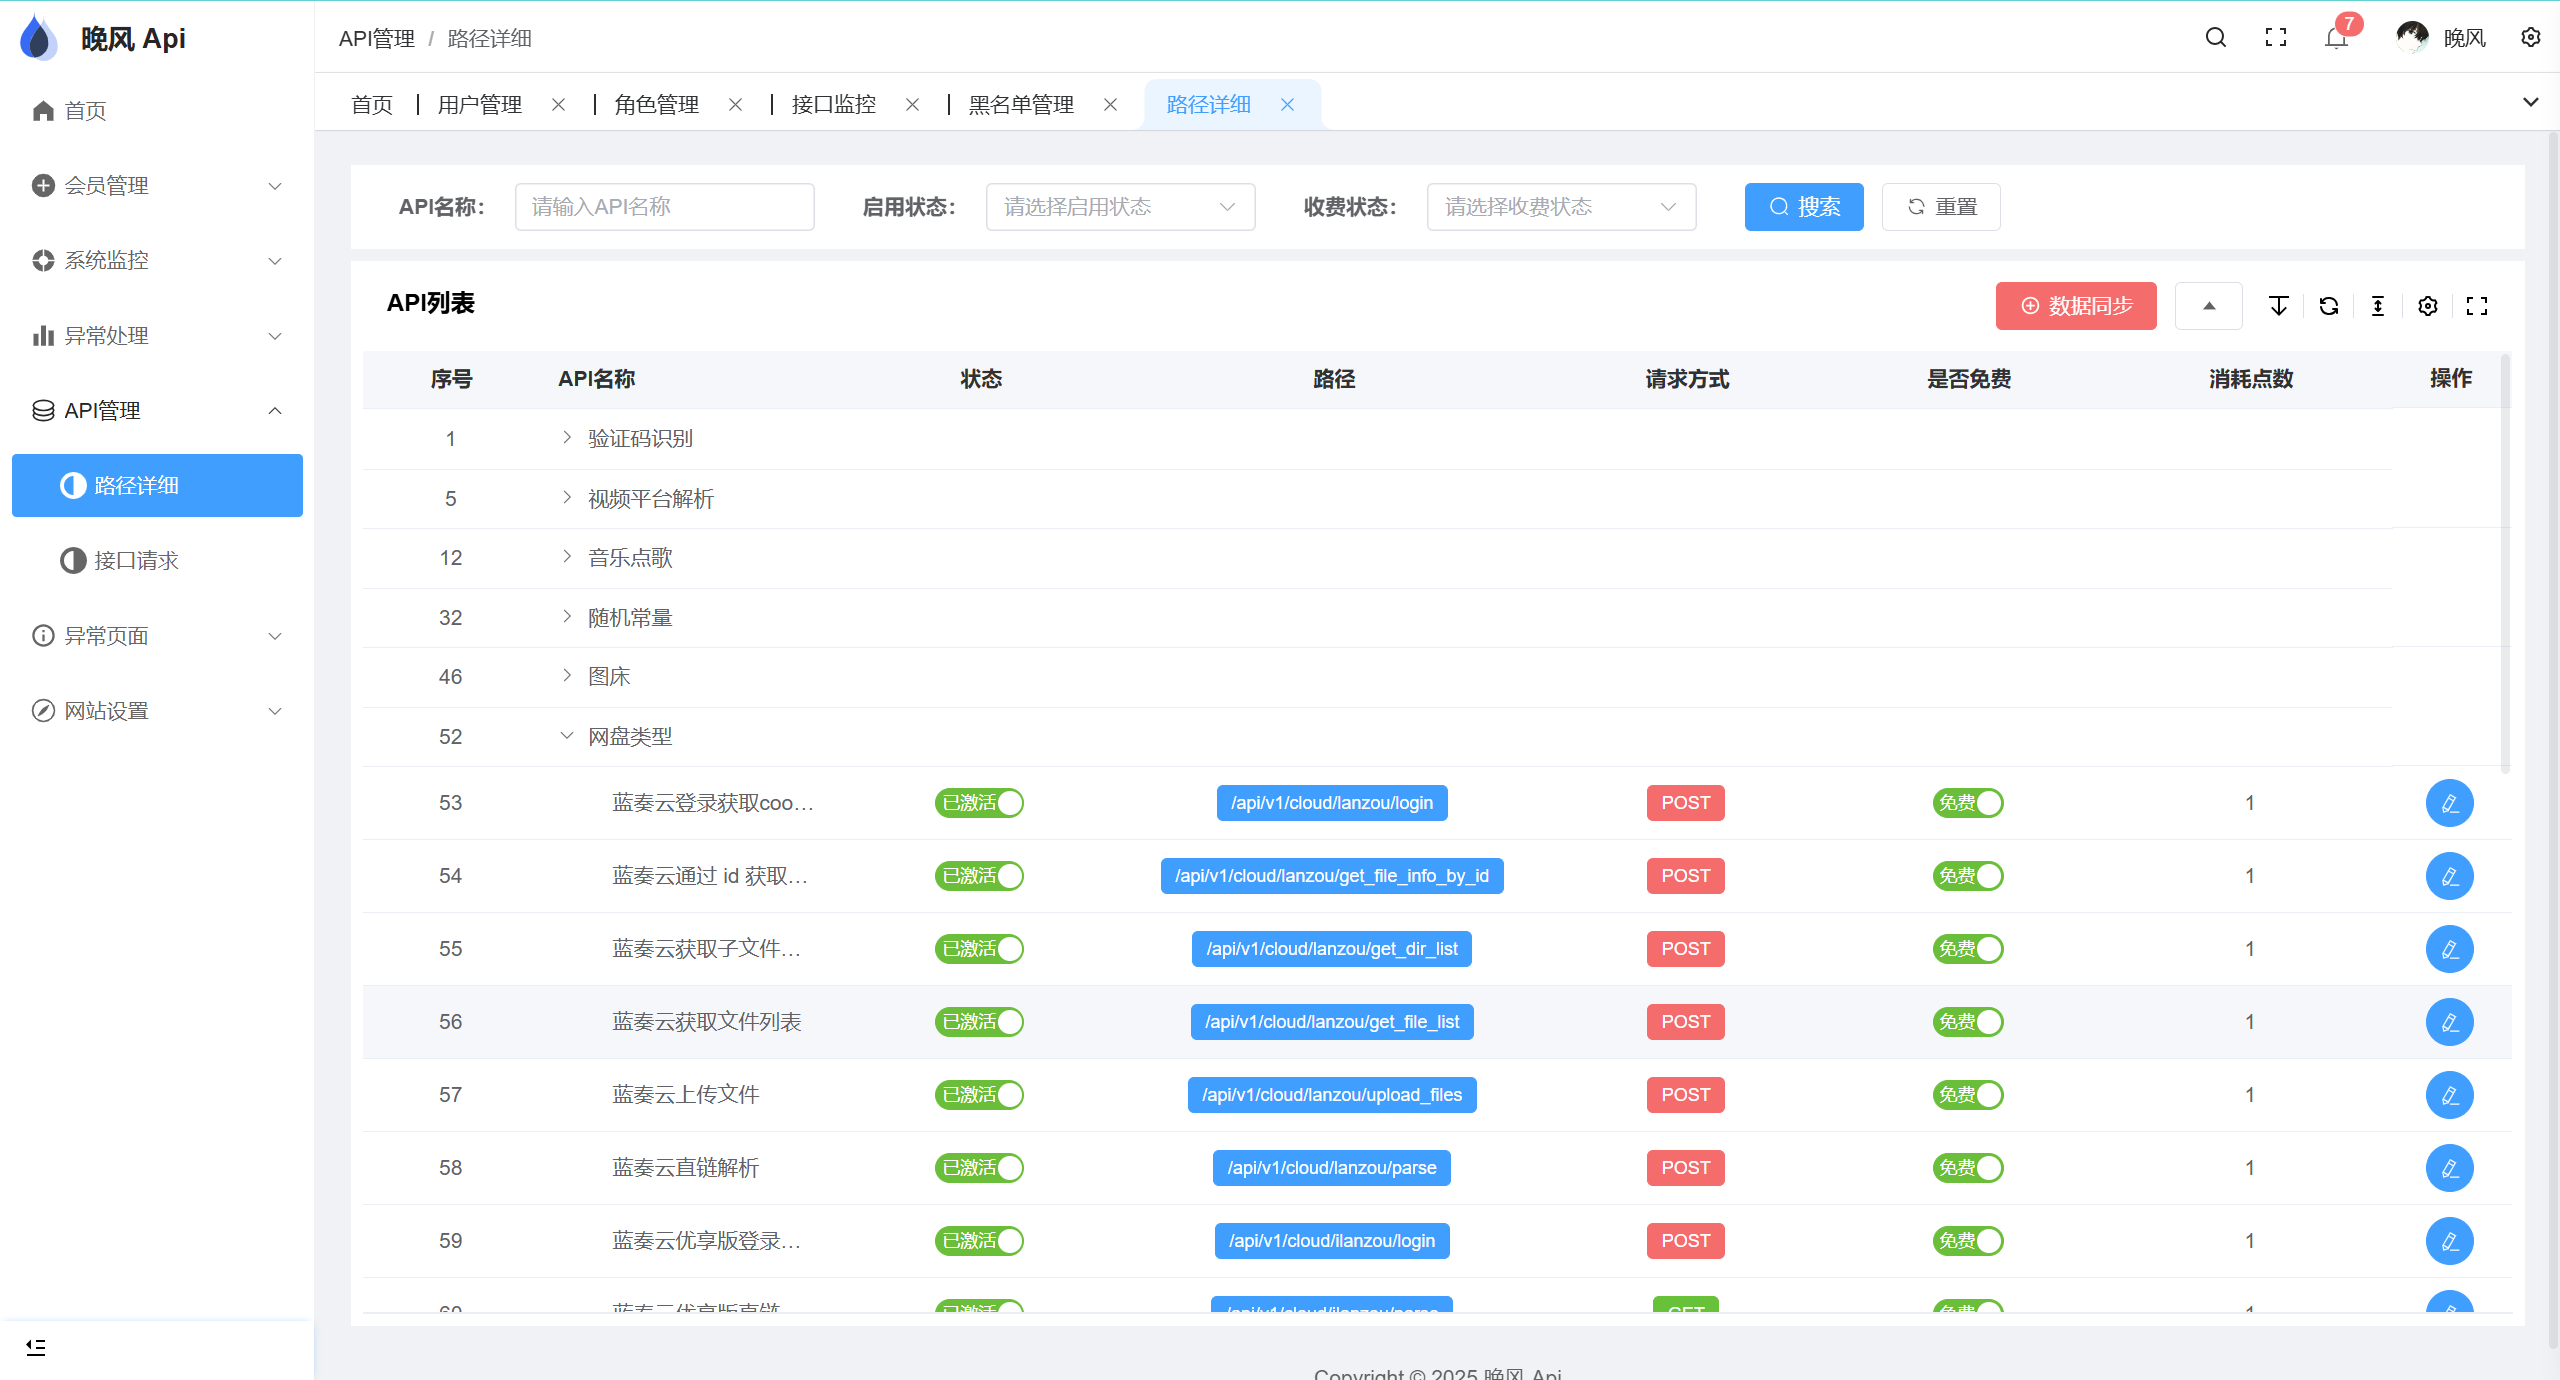
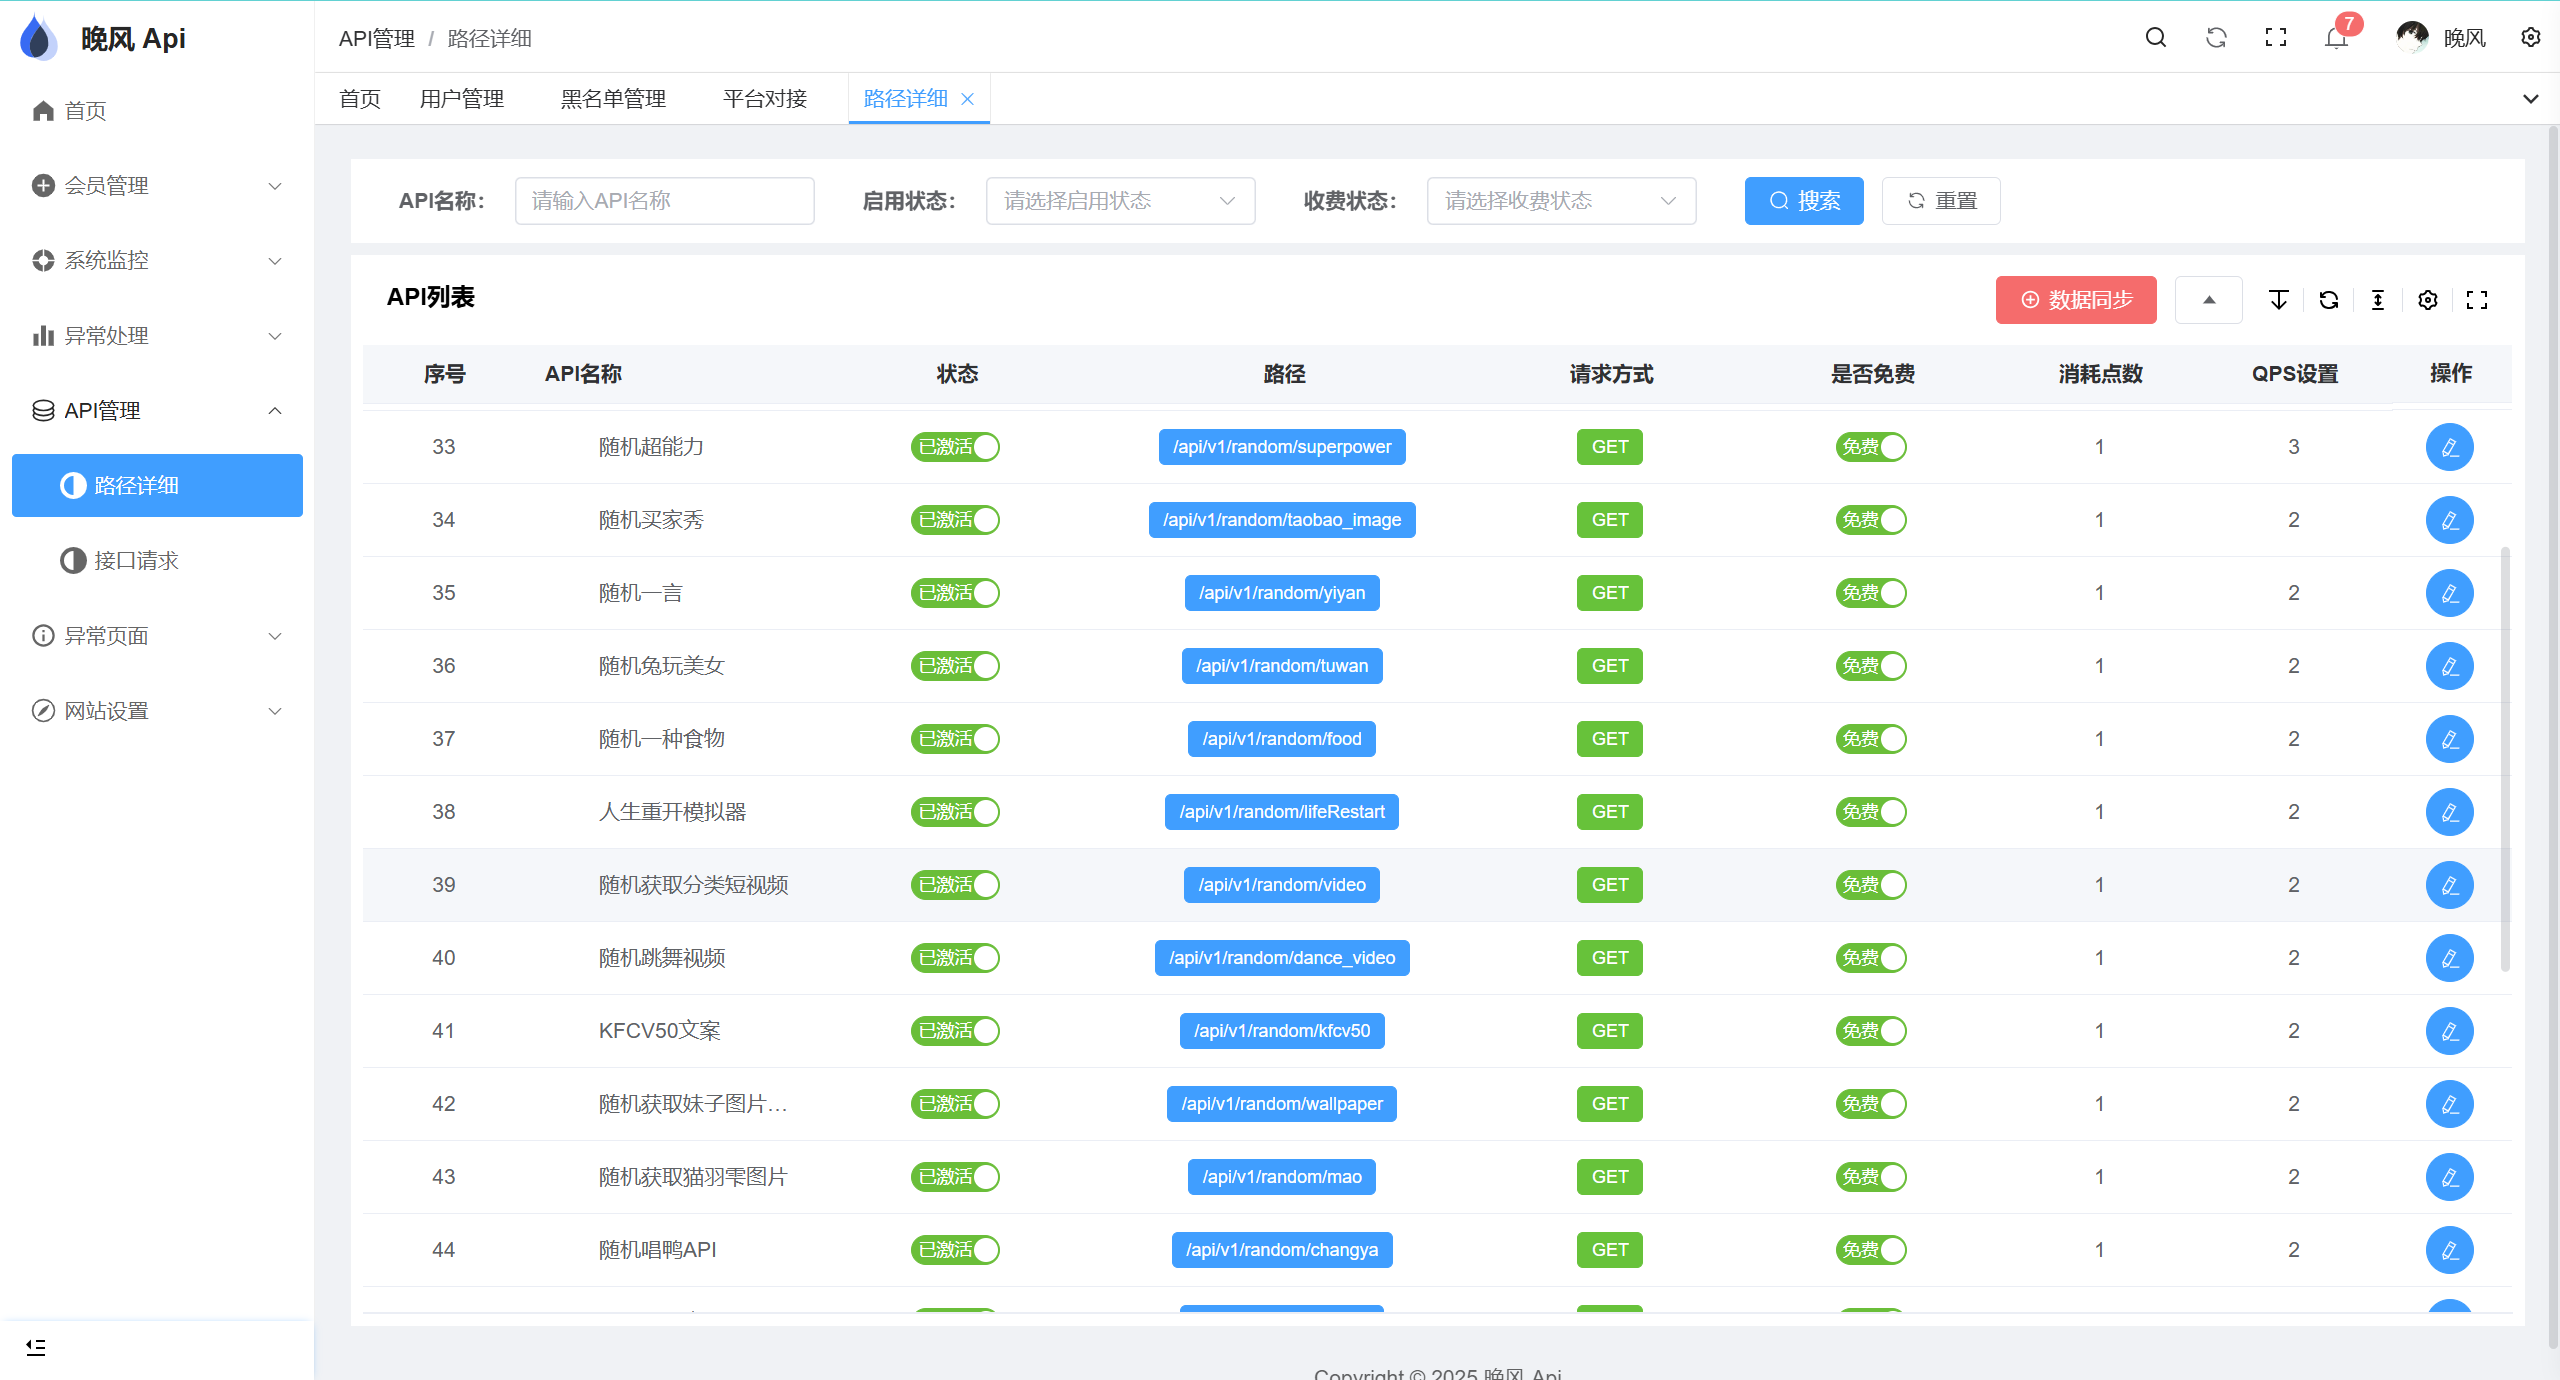
更新 readme

diff --git a/readme.md b/readme.md
@@ -12,22 +12,26 @@
 
 </div>
 
-基于 FastAPI + Vue3 + Element UI 的现代化前后端分离开发平台，融合了 RBAC 权限管理、动态路由和 JWT 鉴权，内置110+条api接口。
+
+基于 FastAPI + Vue3 + Element UI 的现代化前后端分离开发平台，融合了 RBAC 权限管理、动态路由和 JWT 鉴权，内置130+条api接口。
 
 ### 特性
 
-- **最流行技术栈**：基于 Python 3.11 和 FastAPI 高性能异步框架，结合 Vue3 和 Vite 等前沿技术进行开发。
-- **JWT鉴权**：使用 JSON Web Token（JWT）进行身份验证和授权，增强应用的安全性。
-- **颗粒度权限管理**：可实现api的免费和收费功能切换，实现按需付费。
-- **免费和收费功能切换**：系统支持细粒度的权限管理,可以针对不同用户设置不同的访问权限。
+- **最流行技术栈**：基于 Python 3.10 和 FastAPI 高性能异步框架，结合 Vue3 和 Vite 等前沿技术进行开发。
+- **系统JWT鉴权**：使用 JSON Web Token（JWT）进行身份验证和授权，增强应用的安全性。
+- **颗粒度权限管理**：系统支持细粒度的权限管理,可以针对不同用户设置不同的访问权限。
+- **接口鉴权**：使用token作为密钥，绑定用户信息，无token无法使用。
+- **免费和收费功能切换**：可实现api的免费和收费功能切换，实现按需付费。
 - **恶意请求检测和自动加黑名单**：系统会自动检测恶意请求,并将其加入黑名单,以保护系统安全。
 - **自定义QPS限制**：可以对每条API进行QPS限制。
 
+
 ### 在线预览
 
-- <https://amumu2022.github.io/vue-api-admin/>
-- username: admin
-- password: 123456
+ - API文档： <https://wanfeng-api.apifox.cn/>
+ - 官网： <http://api.levial.dpdns.org/>
+ - 服务地址： <http://http://api.levial.dpdns.org/api/v1/>
+
 
 ### 登录页
 
@@ -81,6 +85,7 @@
 
 ![image](https://gitee.com/xdteam-mumu/vue-api-admin/raw/master/docs/image/平台对接.png)
 
+
 ### 本地启动
 
 #### 后端
@@ -111,7 +116,7 @@ source .myapi/bin/activate  # Linux/Mac
 
 ```sh
 poetry install
-```
+``` 
 
 4. 初始化数据
 
@@ -119,11 +124,13 @@ poetry install
 python cli/init.py
 ```
 
+
 5. 启动服务
 
 ```sh
 python app.py
 ```
+
 
 服务现在应该正在运行，访问 <http://localhost:8633/docs> 查看API文档
 
@@ -170,7 +177,7 @@ password：123456
 
 进群的条件是给项目一个star，小小的star是作者维护下去的动力。
 
-你可以在群里提出任何疑问，我会尽快回复答疑。
+你可以在群里提出任何疑问，我会尽快回复答疑。[![QQ](https://img.shields.io/badge/Chat-QQ-91A1E7)](https://qm.qq.com/q/lebtXGD6qk)
 
 ### 鸣谢
 
